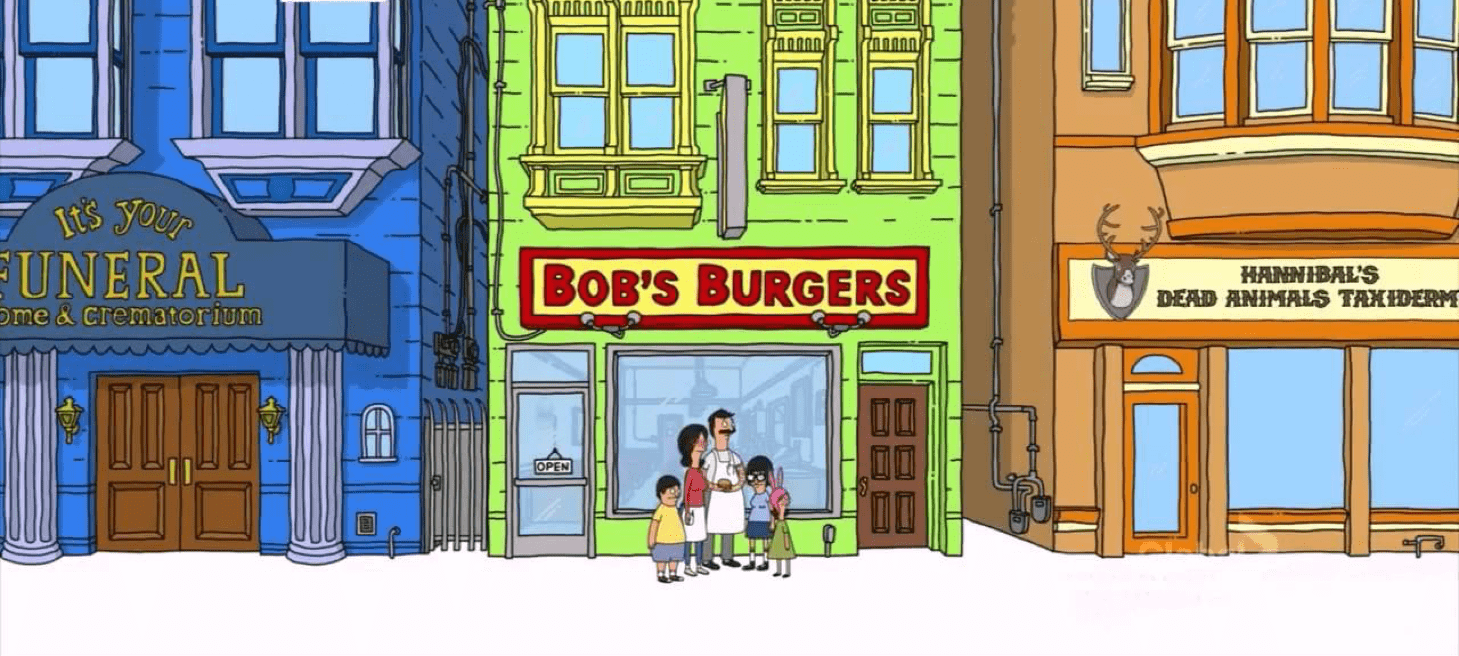
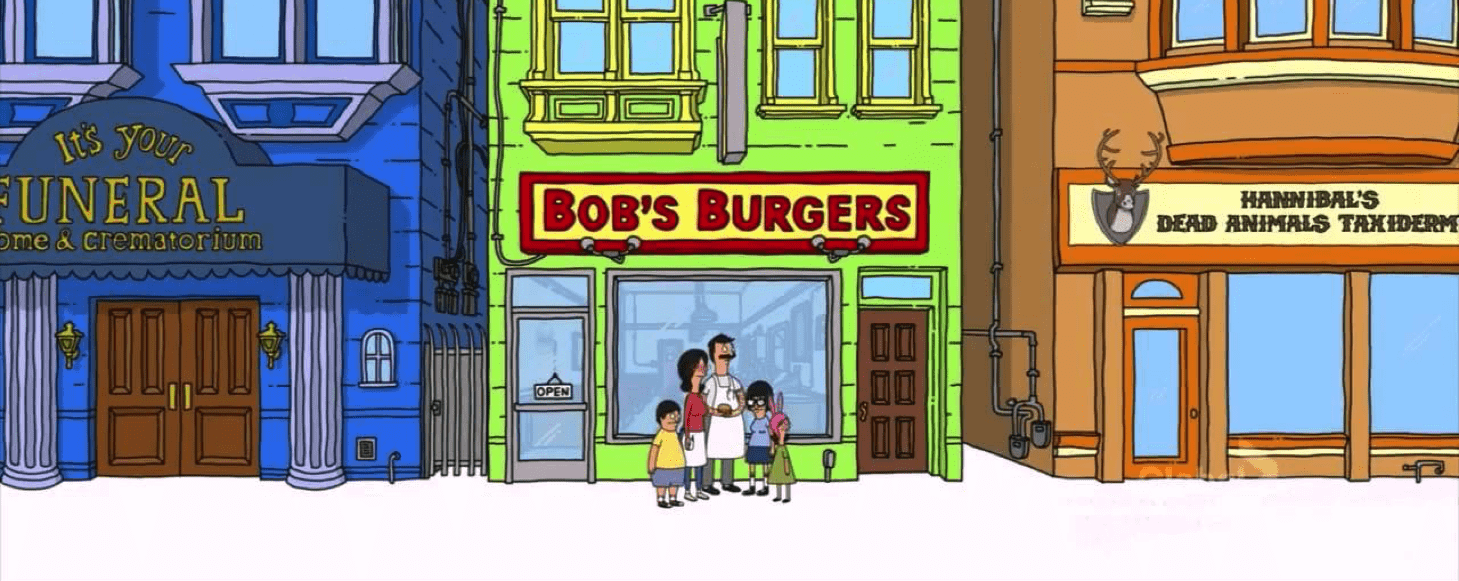
Style hero image

diff --git a/css/main.css b/css/main.css
@@ -1,7 +1,3 @@
-.hero {
-  background-image: url(img/banner-bg.png);
-  background-color: rgba(59, 56, 56, 0.33);
-}
 .span {
   text-transform: uppercase;
   color: #ee252f;
@@ -43,7 +39,29 @@ header span {
   color: #ee252f;
 }
 .hero {
-  background-image: url(img/banner-bg.png);
+  background: url("../img/banner-bg.png");
+  background-position: center;
+  display: -webkit-box;
+  display: -ms-flexbox;
+  display: flex;
+  -webkit-box-orient: vertical;
+  -webkit-box-direction: normal;
+      -ms-flex-direction: column;
+          flex-direction: column;
+  -webkit-box-align: center;
+      -ms-flex-align: center;
+          align-items: center;
+}
+.hero figure {
+  width: 30%;
+  margin-top: 55px;
+}
+.hero img {
+  width: 100%;
+}
+.hero button {
+  margin-top: 10px;
+  margin-bottom: 115px;
 }
 button {
   font-family: 'Roboto', sans-serif;

diff --git a/less/main.less b/less/main.less
@@ -30,7 +30,21 @@ header {
 }
 
 .hero {
-  background-image: url(img/banner-bg.png);
+	background: url("../img/banner-bg.png");
+	background-position: center;
+	display: flex;
+	flex-direction: column;
+	align-items: center;
+	figure {
+		width: 30%;
+		margin-top: 55px;
+	}
+	img {
+		width: 100%;
+	}
+	button {margin-top: 10px;
+		margin-bottom: 115px
+	}
 }
 
 button {

diff --git a/index.html b/index.html
@@ -23,7 +23,7 @@
     </header>
 
     <div class="hero">
-      <img src="img/logo.png" title="Bob's Burgers" alt="Bob's Burgers">
+      <figure><img src="img/logo.png" title="Bob's Burgers" alt="Bob's Burgers"></figure>
       <button>Order Now</button>
     </div>
 

diff --git a/less/mixins.less b/less/mixins.less
@@ -1,10 +1,5 @@
 @import "variables";
 
-.hero {
-  background-image: url(img/banner-bg.png);
-  background-color: rgba(59, 56, 56, .33);
-}
-
 .span {
   text-transform: uppercase;
   color: @red;
